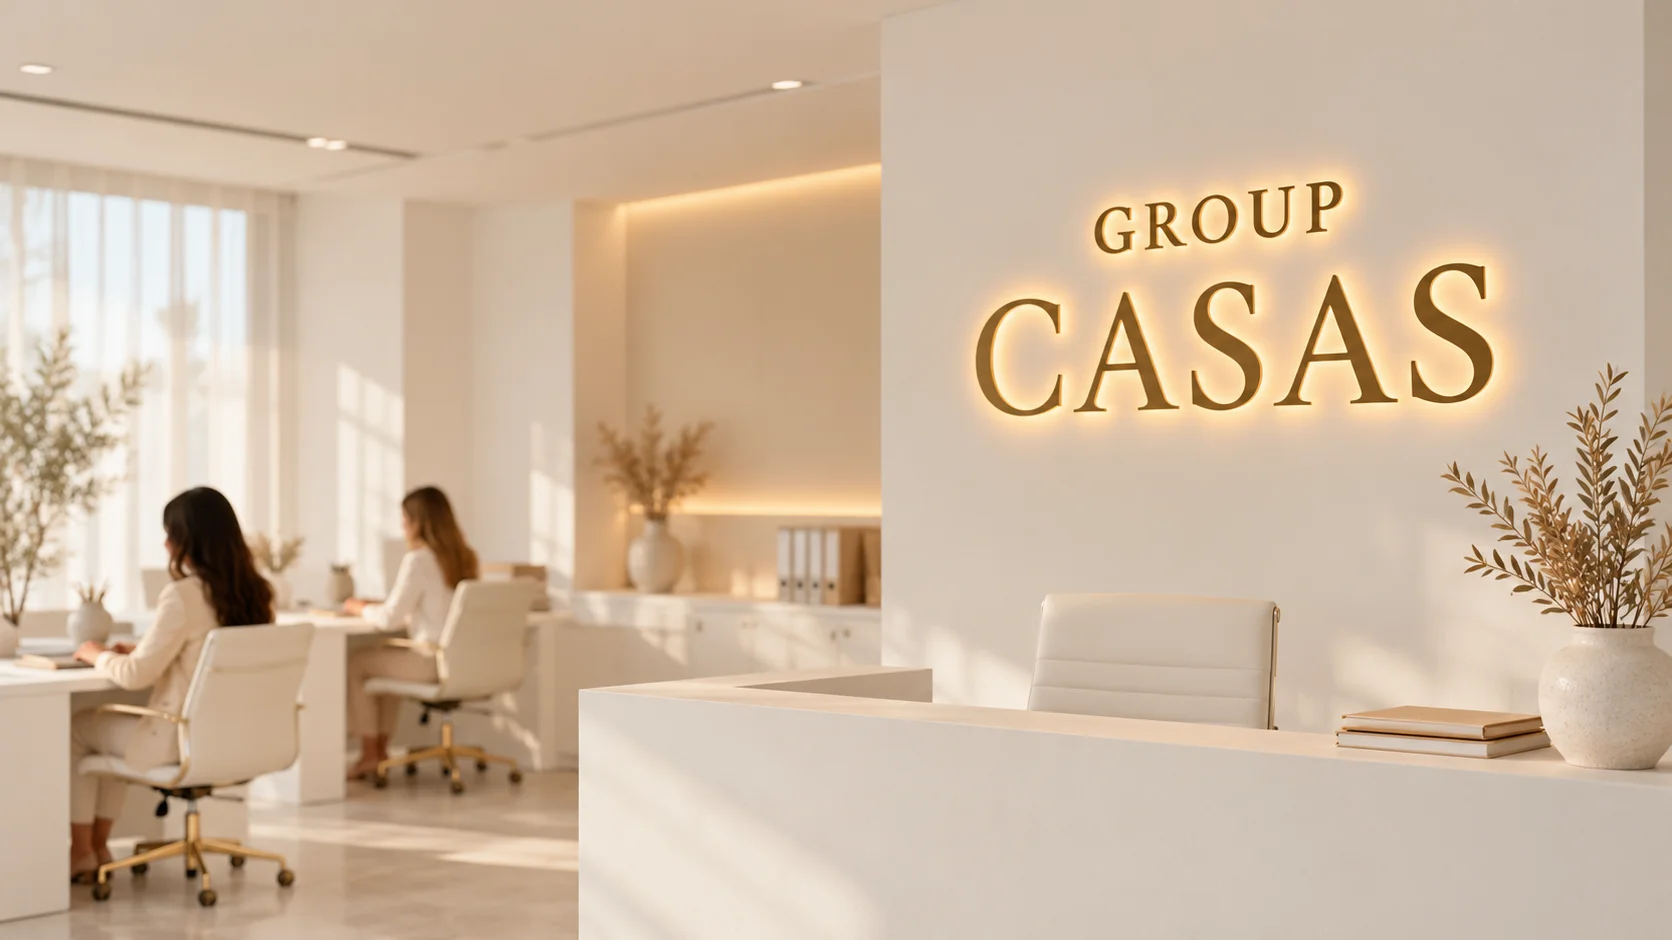
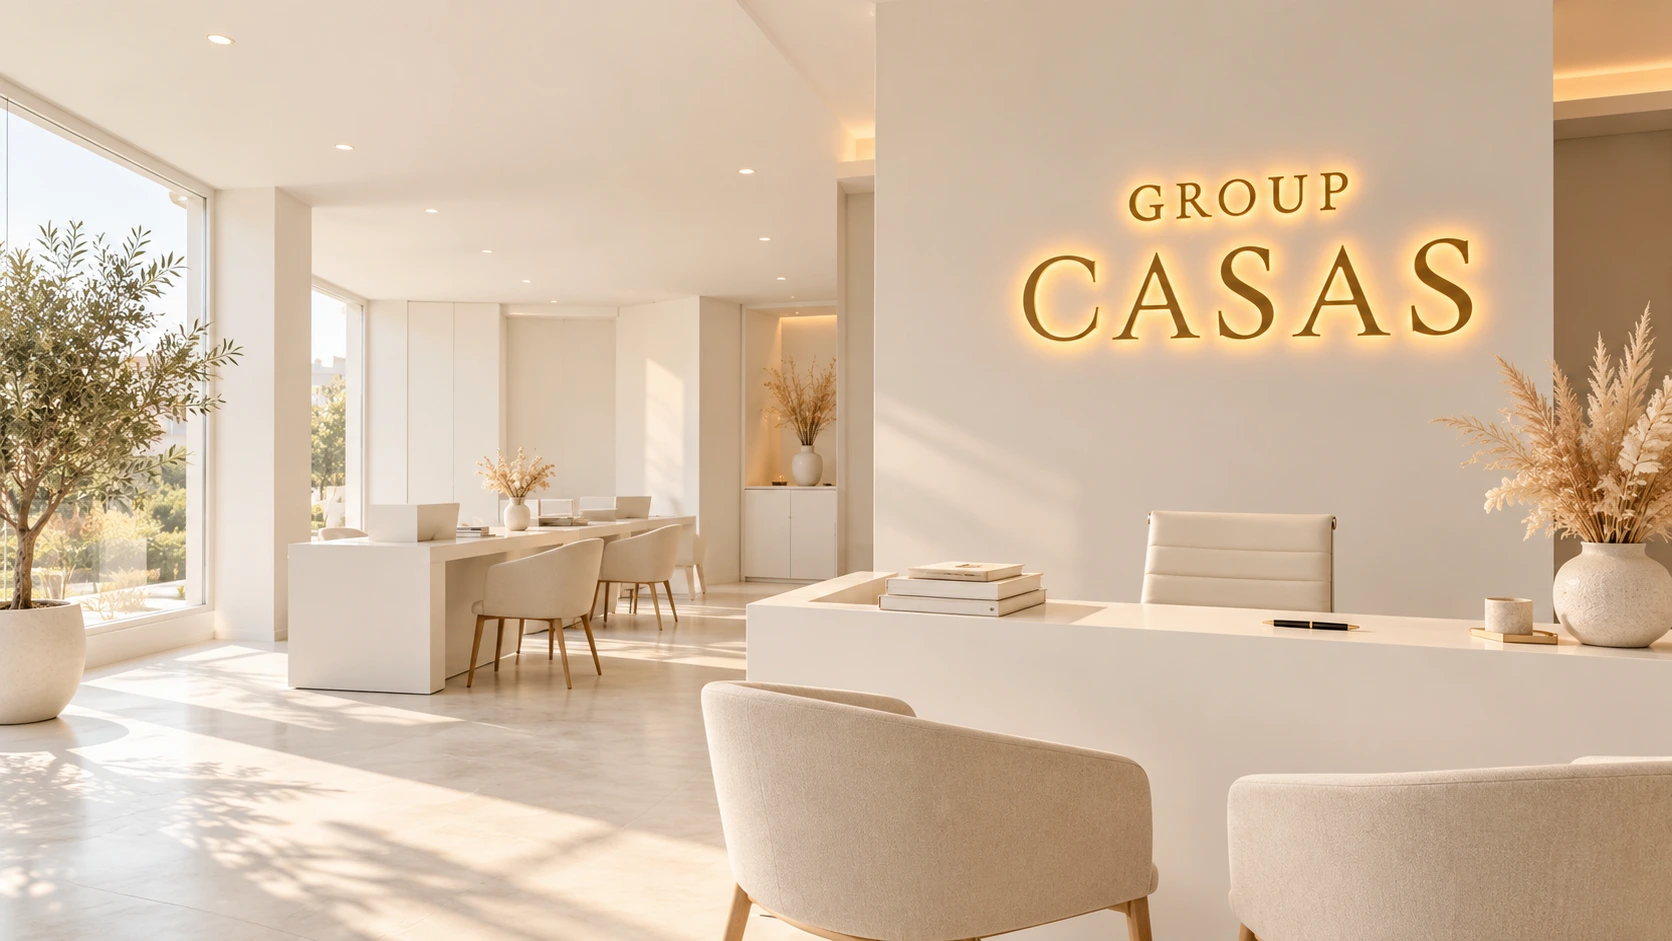
UPDATE images

diff --git a/src/routes/trabaja-con-nosotros.tsx b/src/routes/trabaja-con-nosotros.tsx
@@ -119,8 +119,9 @@ function TrabajaHero() {
         <div
           className="sum-hero-bg-img"
           style={{
-            backgroundImage:
-              'url(https://images.unsplash.com/photo-1521737604893-d14cc237f11d?auto=format&fit=crop&w=1920&q=80)',
+            backgroundImage: 'url(/trabaja-con-nosotros/hero.webp)',
+            // Encuadre desplazado hacia arriba: deja más aire sobre el rótulo
+            backgroundPosition: '64% 0%',
           }}
         />
       </motion.div>

diff --git a/src/routes/nosotros.tsx b/src/routes/nosotros.tsx
@@ -207,8 +207,7 @@ function NosotrosHero() {
           className="sum-hero-bg-img"
           style={{
             backgroundImage: 'url(/nosotros/hero.webp)',
-            // Encuadre desplazado hacia arriba: deja más aire sobre el rótulo
-            backgroundPosition: '64% 0%',
+            backgroundPosition: 'center 0%',
           }}
         />
       </motion.div>
